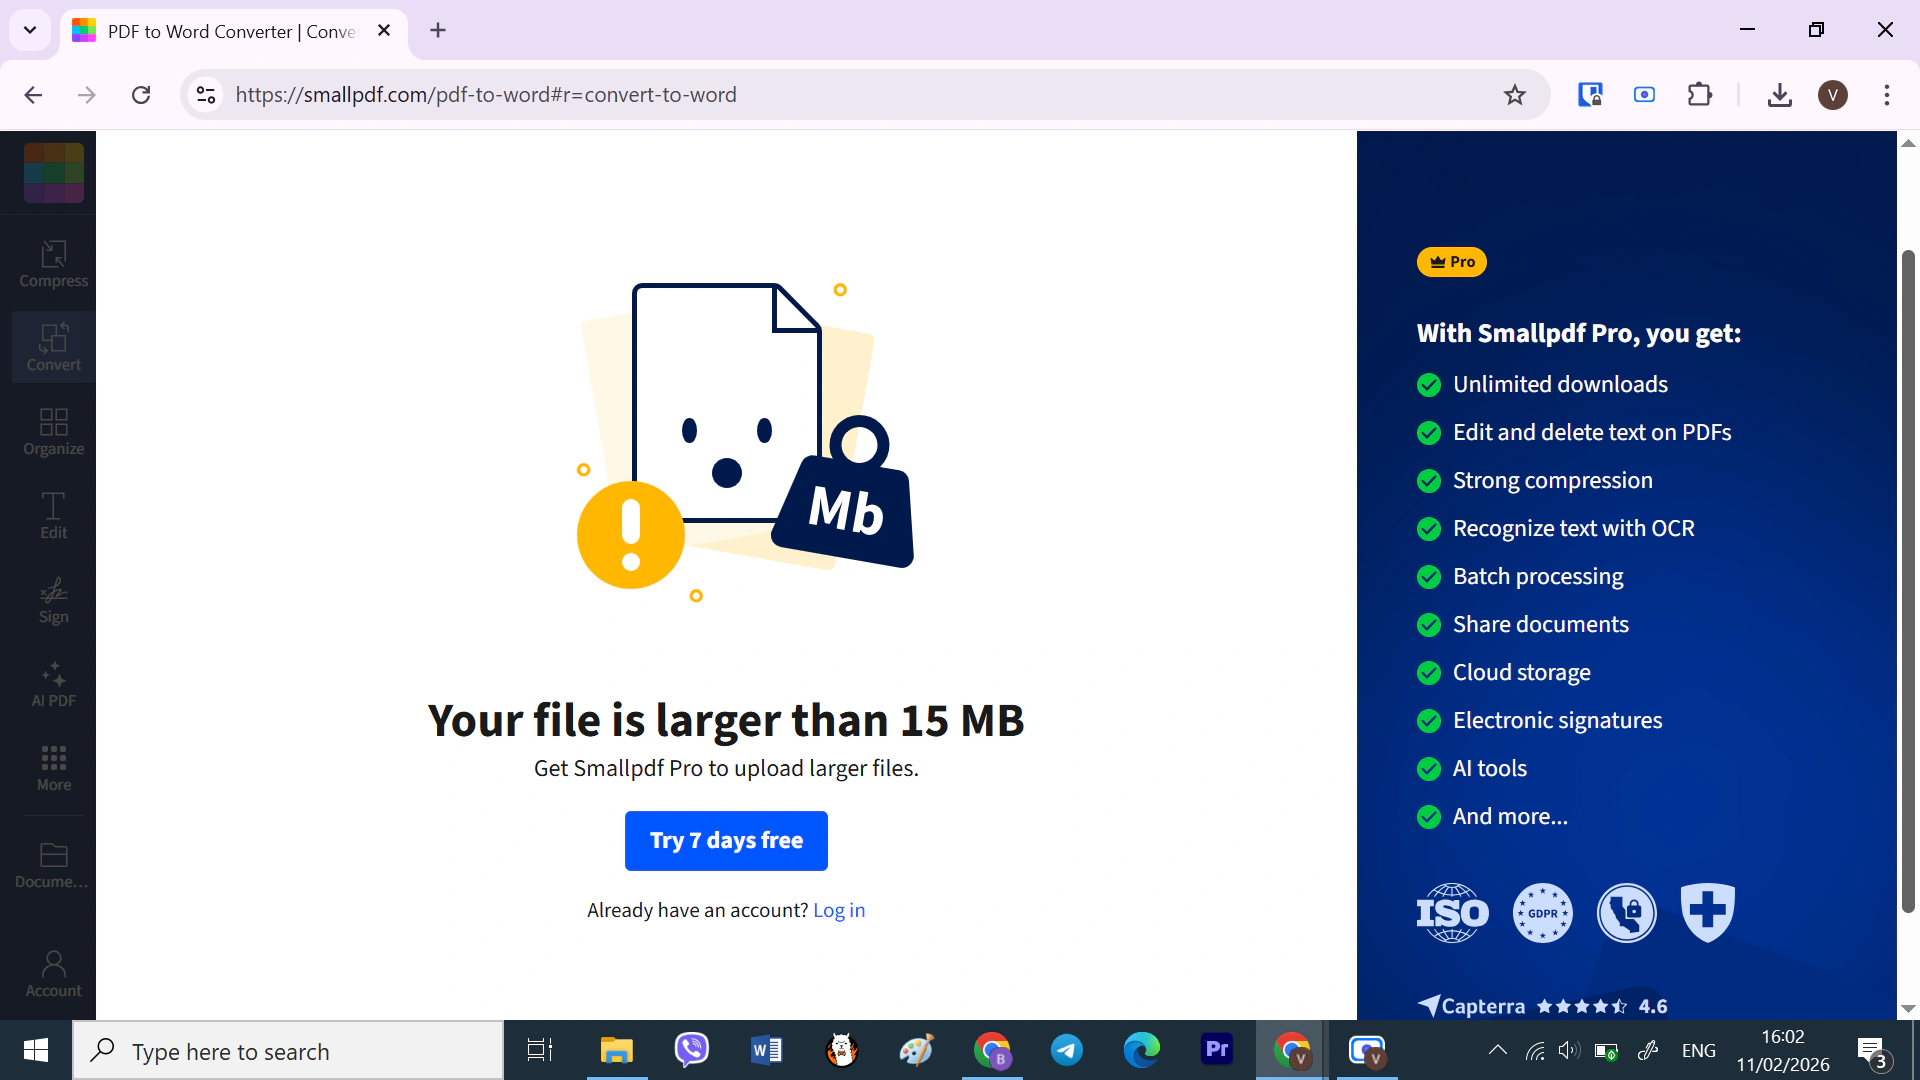
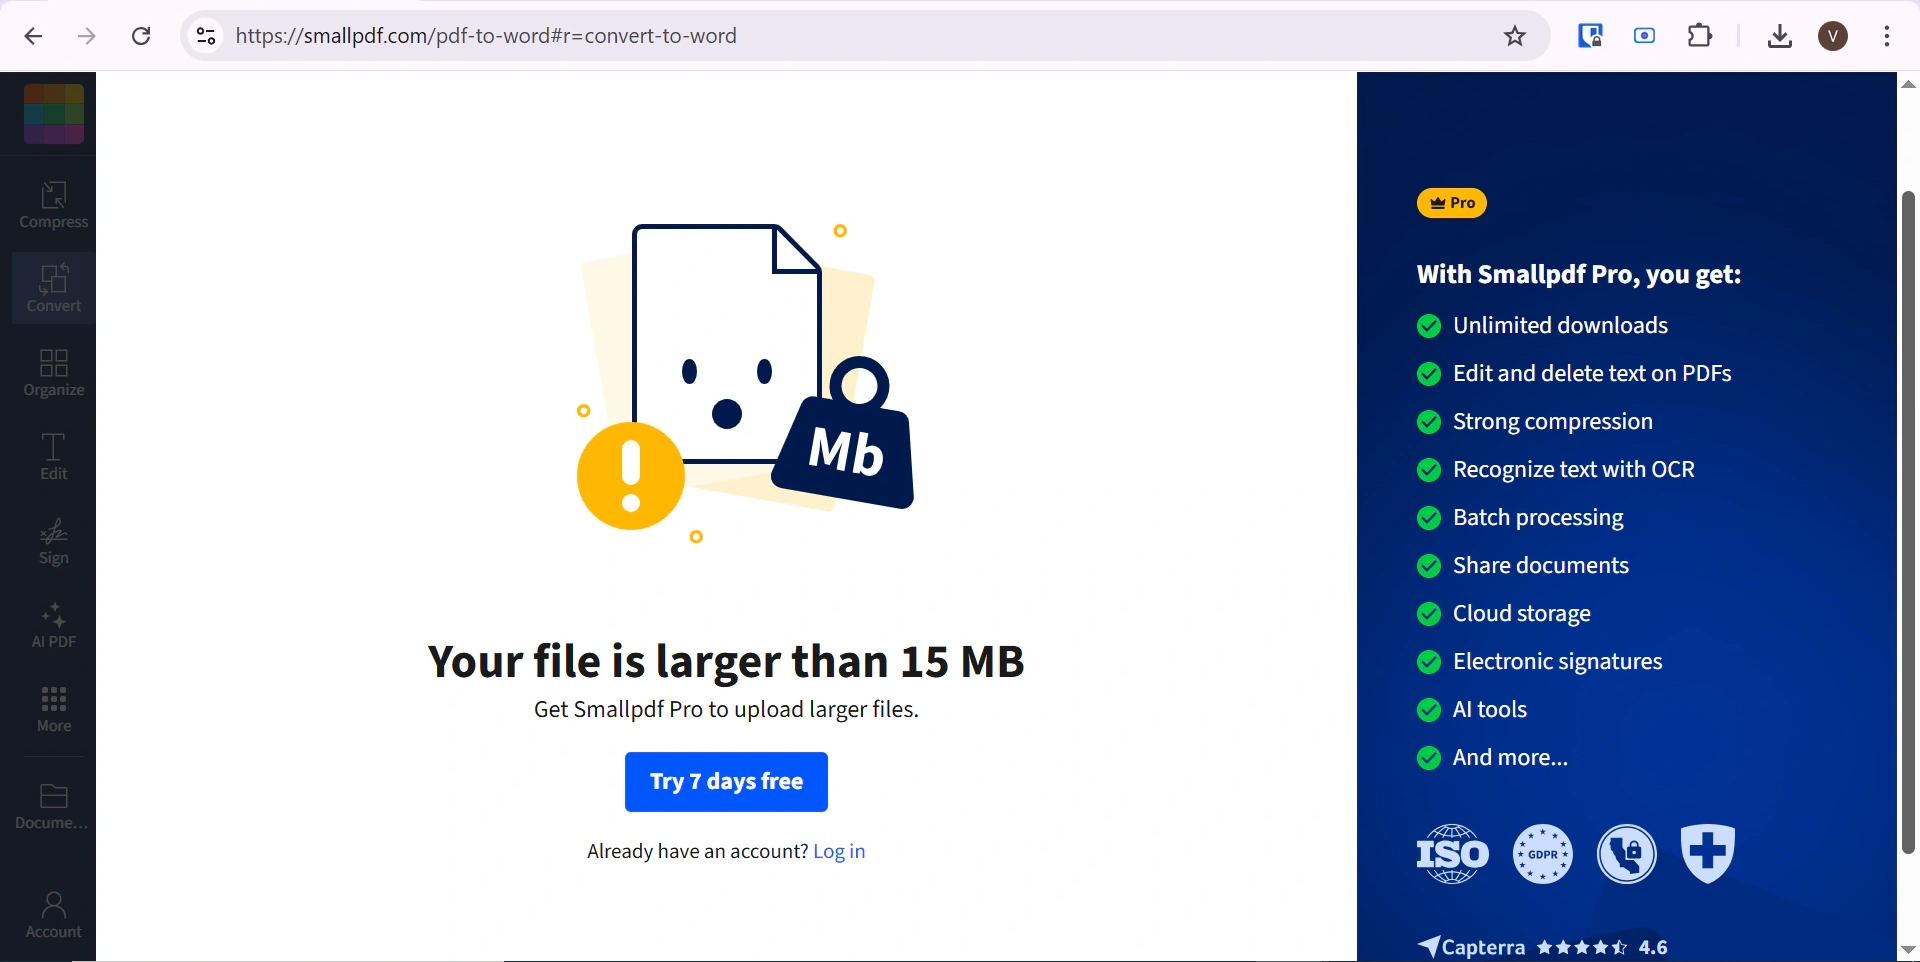
Improvements and fixes

diff --git a/articles/smallpdf-vs-mconverter-free-plans.md b/articles/smallpdf-vs-mconverter-free-plans.md
@@ -16,7 +16,7 @@ aside_cards:
 
 The first result you get when searching for a “PDF compressor” is usually SmallPDF. Being the top result and not looking like A.I. slop does make this website appear reliable. But how useful is it really for its free users? To test this, I compressed and converted two files of 300 KB and 10 MB to compare SmallPDF’s capabilities against MConverter.
 
-## Free Daily Limit
+## Daily Limits
 
 Before using SmallPDF, there is no way to tell what their free daily limit is. To find out, I started compressing PDFs one by one and was surprised to find the free limit is only 2 files per 24 hours. While that is disappointing, the process of finding out that limit was even more annoying to me. The website allows you to upload and convert/compress a third file, but then puts a paywall when you try to download it. At this point, your only options are paying for Pro, signing up for the 7-day free trial, or waiting until the next day to process two more files.
 
@@ -24,7 +24,7 @@ Before using SmallPDF, there is no way to tell what their free daily limit is. T
 
 Luckily, MConverter offers a significantly larger free daily limit of 15 free conversions per day, no strings attached. Find out more about [MConverter’s free plan here](https://mconverter.eu/blog/improved-free-plan/).
 
-## Batch Conversions
+## Batch Processing
 
 Batch conversion is the perfect feature for converting multiple files without constantly clicking around to process them one by one. Unfortunately, similarly to the hidden free daily limit, there was no information about the batch conversion limit of SmallPDF either. I tried batch converting 4 files only to find out that batch conversion is completely unavailable to free users. You cannot work with multiple files in SmallPDF for free.
 
@@ -34,7 +34,7 @@ Contrary to what SmallPDF offers, all MConverter users can enjoy a free batch co
 
 ![Batch-converting eight files with MConverter](mconverter-batch-conversion-eight-files.webp)
 
-## PDF Compression Quality
+## Compression Results
 
 SmallPDF is most commonly used as a PDF compressor even though it can also be used for converting, merging and splitting PDF files. I decided to do a test compression of 2 PDF files of 300 KB and 10 MB to estimate how much smaller they actually get. The first one was reduced to 13 KB and the second to 198 KB making them about 96% smaller than the original. That test also showed me that only **Basic** compression is available to free users.
 
@@ -114,7 +114,7 @@ With MConverter the image quality was preserved during the **Basic** and **Stron
 
 ![MConverter Basic, Strong, and Extreme compression quality comparison](mconverter-compression-quality-comparison.webp)
 
-## PDF Compression Levels
+## Compression Levels
 
 PDF compression tools let you specify how much the file size should be reduced, at the expense of quality. The free plan of SmallPDF only lets you select the **Basic** level, while **Moderate** and **Strong** are locked behind a paywall, as is the **Custom** option.
 
@@ -122,21 +122,21 @@ PDF compression tools let you specify how much the file size should be reduced, 
 
 With MConverter, though, you can [choose between all three PDF compression strengths for free](https://mconverter.eu/convert/pdf/tiny.pdf/#faq): **Basic**, **Strong**, and **Extreme**. This freedom gives you more flexibility and lets you decide if you prefer preserving very fine details, or if you absolutely need to get that PDF under 10 MB so that you can email it. All for free.
 
-## Speed
+## Compression Speed
 
-Speed is another major consideration for file converters, especially when you need to use them urgently. To compress a 300 KB PDF, SmallPDF took about 8 seconds, whereas MConverter took 1 second regardless of the compression level.
+Speed is another major consideration for this type of products, especially when you need to use them urgently. To compress a 300 KB PDF, SmallPDF took about 8 seconds, whereas MConverter took 1 second regardless of the compression level.
 
-Before discussing the 10 MB file, it is important to remember that file conversion consists of 2 parts \- uploading and compressing, and this difference is most noticeable with larger files. While the uploading is dependent on your internet speed, the compression speed is up to the website we use. For more objective results, I will only present the time spent on the actual compression. Both SmallPDF and MConverter needed 4 seconds to complete the Basic compression of the 10 MB PDF. However, MConverter needed 18 seconds to complete the Strong compression and 17 seconds to complete the Extreme compression.
+Before discussing the 10 MB file, it is important to remember that file conversion consists of 2 parts - uploading and compressing, and this difference is most noticeable with larger files. While the uploading is dependent on your internet speed, the compression speed is up to the website we use. For more objective results, I will only present the time spent on the actual compression. Both SmallPDF and MConverter needed 4 seconds to complete the Basic compression of the 10 MB PDF. However, MConverter needed 18 seconds to complete the Strong compression and 17 seconds to complete the Extreme compression.
 
-## File Size Limits
+## Upload Size Limits
 
-You can probably already guess that the file size limit of SmallPDF was not disclosed either. I attempted to compress a 100 MB PDF, only to find out the limit is 15 MB. Even though that is a decent size limit for a PDF, people usually compress their files exactly because they go way over the desired size for a PDF by like 50 MB or even 100 MB. Unfortunately, SmallPDF’s size limit is not meant to accommodate such needs.
+You can probably already guess that the file size limit of SmallPDF was not disclosed in advance either. I attempted to convert a 100 MB PDF to Word, only to find out the limit is 15 MB. That may be enough for some ordinary documents, but it prevents free users from converting larger PDFs.
 
 ![SmallPDF rejects files larger than 15 MB on the free plan](smallpdf-15-mb-file-size-limit.webp)
 
-MConverter, on the other hand, can convert or compress files up to 100 MB for free. This makes it a handy tool for reducing the size of actually heavy files.
+MConverter, on the other hand, can convert or compress files up to 100 MB for free. This makes it the more practical option when working with larger PDFs.
 
-## PDF Conversion
+## Conversion Formats
 
 With a focus on file compression, SmallPDF only offers 5 file formats to convert PDFs to. Two of which are the image formats JPG and PNG. However, when choosing to convert to an image I always automatically received JPG images without the option to choose PNG. This potential error reduces the available conversion formats to 4. So while it does offer the basics, it cannot really be considered a full-blown file converter.
 
@@ -176,7 +176,7 @@ For comparison, MConverter has a strictly guaranteed [refund policy](#refunds), 
 
 SmallPDF’s free limit is 2 files per 24 hours, with no batch processing, and their 7-day free trial could bring you an unexpected paid yearly subscription. Contrast that with MConverter’s 15 free daily conversions and the ability to convert up to 8 files at once.
 
-SmallPDF also only offers Basic compression to its free users that reduces file size by 90-96%. That outdoes MConverter’s Basic and Strong compression of up to 75%, but is equal to its Extreme compression. However, SmallPDF’s high compression rate becomes useless due to the free plan’s size limit of 15 MB, which is significantly less than MConverter’s 100 MB. With a larger focus on file conversion, MConverter offers a wider variety of formats while SmallPDF only offers 5 file formats to convert PDF to (with PNG being impossible to select).
+SmallPDF also only offers Basic compression to its free users that reduces file size by 90-96%. That outdoes MConverter’s Basic and Strong compression of up to 75%, but is equal to its Extreme compression. However, SmallPDF’s high compression rate is less useful due to the free plan’s size limit of 15 MB, which is significantly less than MConverter’s 100 MB. With a larger focus on file conversion, MConverter offers a wider variety of formats while SmallPDF only offers 5 file formats to convert PDF to (with PNG being impossible to select).
 
 In conclusion, while SmallPDF offers high quality compression and conversion to all its users, it is outdone by MConverter when it comes to free daily limits, file size limits and variety of formats to convert to.
 
